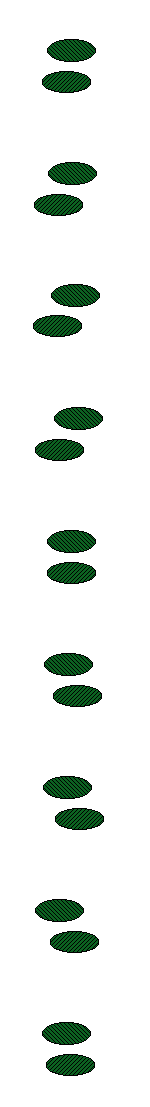
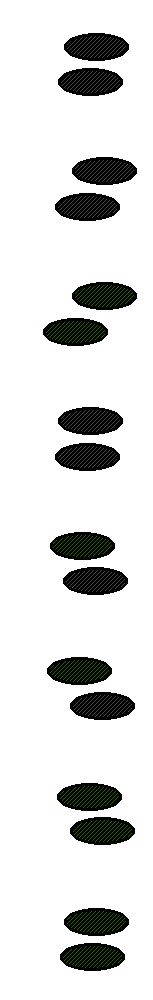
separated feet/body

Changed region(s): [[0.2133, 0.124, 0.9067, 0.868], [0.2933, 0.899, 0.8533, 0.992], [0.2667, 0.031, 0.8533, 0.093]]

diff --git a/player_class.py b/player_class.py
@@ -69,6 +69,7 @@ class Player(pygame.sprite.Sprite):
     def draw(self):
         self.move()
         screen.blit(self.image, (self.rect.x, self.rect.y))
+        screen.blit(self.feet_image, (self.rect.x, self.rect.y))
         self.draw_laser()
         
         
@@ -76,7 +77,7 @@ class Player(pygame.sprite.Sprite):
     
     def choose_frame(self, current_frame = FRAME):
         
-        self.image = self.orig_image
+        self.feet_image = self.orig_image
         
         if self.changex == 0 and self.changey == 0:
             self.start_frame = self.frame
@@ -90,7 +91,7 @@ class Player(pygame.sprite.Sprite):
                 self.start_frame = self.frame
                 step = 0
             print(step)
-            self.image = walking_frames[step]
+            self.feet_image = walking_frames[step]
         
     
     def rotate(self):
@@ -130,7 +131,8 @@ class Player(pygame.sprite.Sprite):
         self.pos_x, self.pos_y = self.rect.center
         
         # rotate image
-        self.image = pygame.transform.rotate(self.image, self.angle)
+        self.image = pygame.transform.rotate(self.orig_image, self.angle)
+        self.feet_image = pygame.transform.rotate(self.feet_image, self.angle)
         
         # correct rotation jitter by explicetly setting center
         self.rect = self.image.get_rect(center=(self.pos_x, self.pos_y))

diff --git a/constants.py b/constants.py
@@ -35,7 +35,7 @@ background.fill((50,50,50))
 # game experience constants
 
 PLAYER_SPEED = 3
-WALKING_SPEED = 4
+WALKING_SPEED = 12
 
 
 
@@ -55,7 +55,7 @@ crosshair.set_alpha(150) # makes it see through
 cursor_size = crosshair.get_size()
 
 # sprite sheet walking animation:
-p_walking_ani = pygame.image.load("ani_player_walking_sheet.png").convert()
+p_walking_ani = pygame.image.load("ani_feet_walking_sheet.png").convert()
 p_walking_ani.set_colorkey(WHITE)
 # make a list of frames from the sprite sheet:
 sheet_size = p_walking_ani.get_rect()
@@ -63,8 +63,8 @@ sheet_size = sheet_size.size
 print(sheet_size)
 walking_frames = []
 
-for i in range(6):
-    size = [153, (750/6)] 
+for i in range(8):
+    size = [150, (1000/8)] 
     pos = [0, (size[1] * (i))]
     walking_frames.append(p_walking_ani.subsurface(pos, size))
     
